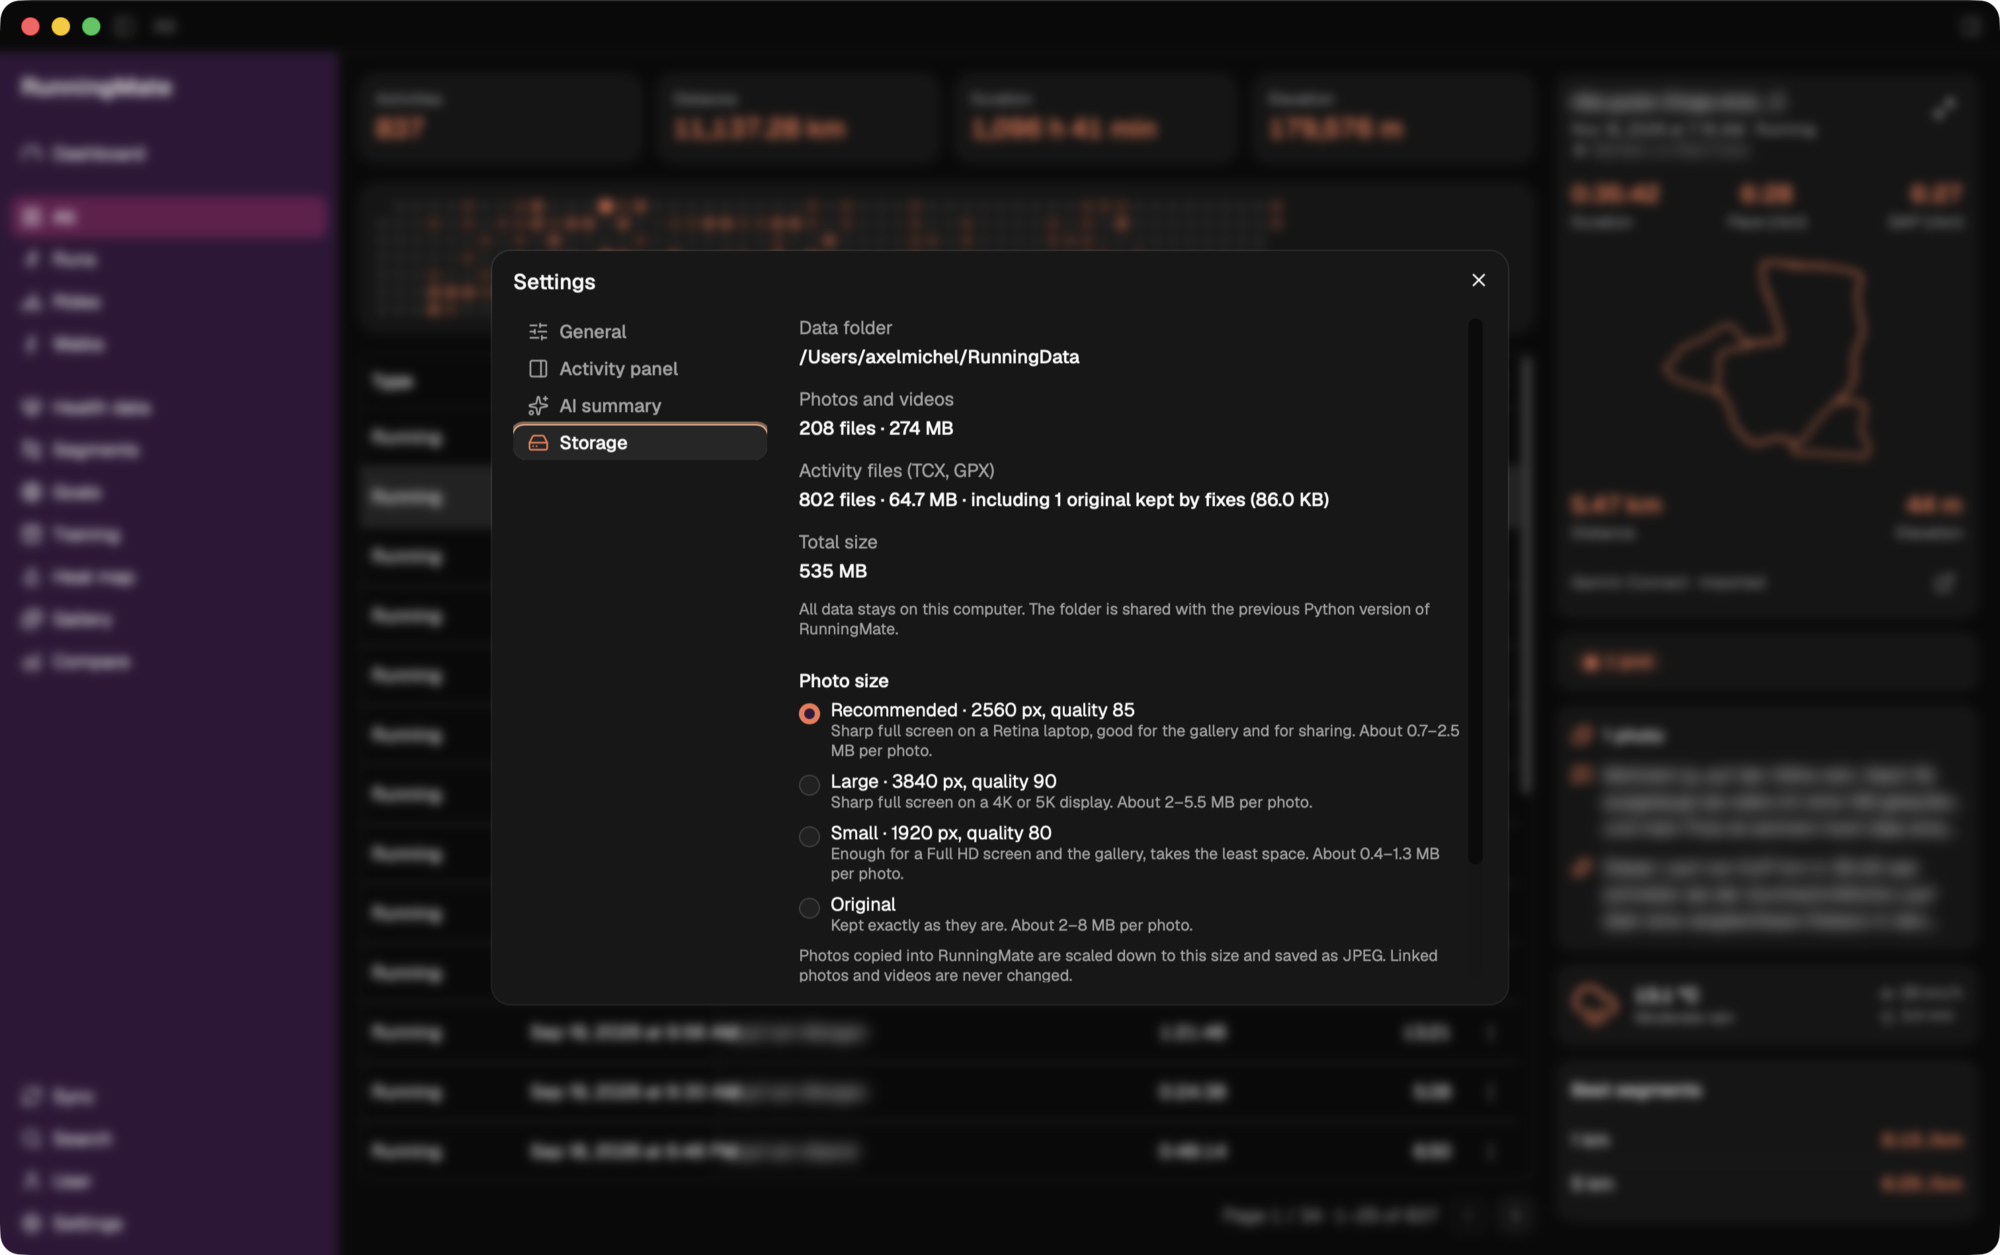
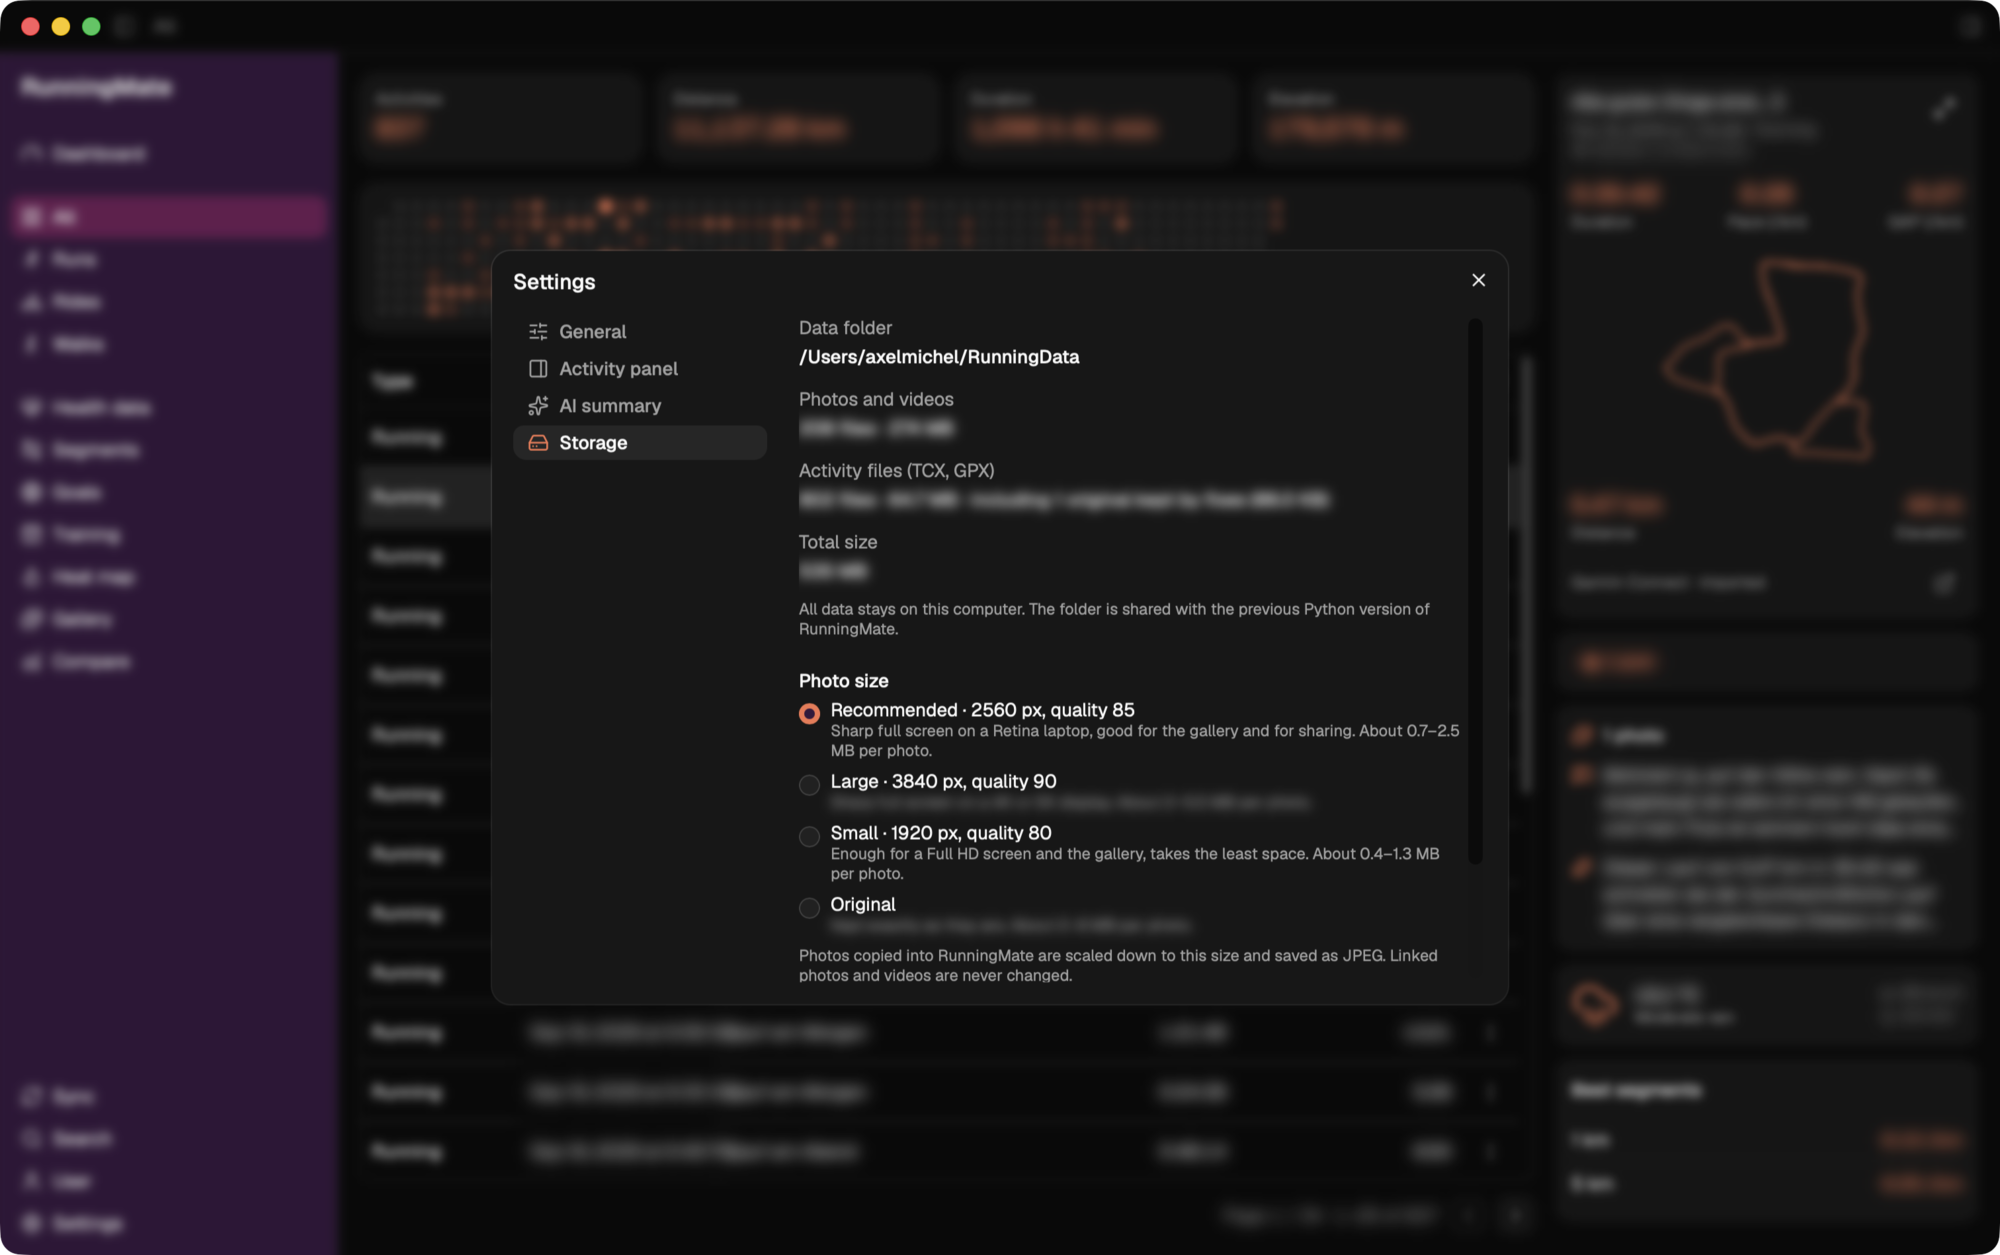
Screenshots: every figure blurred and no focus rings
Privacy mode (VITE_PRIVACY=1, development builds only) now also blurs times, distances, paces,
heart rates, health values and other figures: a small observer marks short texts with a number
and unit or a time, chart value axes and labels are hidden, input values, zone limits and the
age group are blurred, and focus rings are left out. All doc screenshots are retaken with it.

diff --git a/app/src/lib/privacy.ts b/app/src/lib/privacy.ts
@@ -1,0 +1,49 @@
+/**
+ * Privacy mode for screenshots (`VITE_PRIVACY=1`, development only): besides the elements
+ * marked `data-private`, every short text with a figure in it, a number with a unit (km, bpm,
+ * %, …) or a time like 5:41, gets the class `privacy-figure`, which blurs it (or, in charts,
+ * hides it). Only a class is added, so React's DOM stays as it is.
+ */
+const FIGURE =
+  /\d[\d.,]*\s*(?:km\/h|\/km|km|m\b|bpm|spm|kcal|W\b|%|h\b|min\b|s\b|ml\/kg|°C|mm\b|MB|KB|GB)|\d+:\d\d/;
+/** Longer texts are sentences; blurring them whole would hide too much. */
+const MAX_LENGTH = 80;
+
+function mark(node: Node) {
+  const parent = node.parentElement;
+  const text = node.textContent ?? "";
+  if (!parent || text.length > MAX_LENGTH || parent.closest("[data-private]")) return;
+  // Adding a class that is there already still counts as a change, and would loop.
+  if (FIGURE.test(text) && !parent.classList.contains("privacy-figure")) {
+    parent.classList.add("privacy-figure");
+  }
+}
+
+function scan(root: Node) {
+  if (root.nodeType === Node.TEXT_NODE) return mark(root);
+  const walker = document.createTreeWalker(root, NodeFilter.SHOW_TEXT);
+  for (let node = walker.nextNode(); node; node = walker.nextNode()) mark(node);
+}
+
+export function startPrivacyMode() {
+  document.documentElement.classList.add("privacy");
+  scan(document.body);
+  new MutationObserver((mutations) => {
+    for (const mutation of mutations) {
+      if (mutation.type === "characterData") mark(mutation.target);
+      else if (mutation.type === "attributes") {
+        // Only the element's own text: its class was reset, the rest is unchanged.
+        mutation.target.childNodes.forEach((child) => {
+          if (child.nodeType === Node.TEXT_NODE) mark(child);
+        });
+      } else mutation.addedNodes.forEach(scan);
+    }
+  }).observe(document.body, {
+    subtree: true,
+    childList: true,
+    characterData: true,
+    // React resets `class` on updates; the scan puts the mark back.
+    attributes: true,
+    attributeFilter: ["class"],
+  });
+}

diff --git a/app/src/index.css b/app/src/index.css
@@ -253,6 +253,27 @@ body:has([data-slot="dialog-overlay"], [data-slot="alert-dialog-overlay"])
 }
 
 /* Privacy mode for screenshots (see main.tsx): activity titles and comments are unreadable. */
-.privacy [data-private] {
+.privacy [data-private],
+/* The figures too: anything set in tabular figures, values marked as figures, chart values. */
+.privacy .tabular-nums,
+.privacy .privacy-figure,
+.privacy input[type="number"],
+.privacy input[type="datetime-local"],
+.privacy .recharts-tooltip-wrapper {
   filter: blur(5px);
+}
+
+/* WebKit doesn't blur SVG text: figures in charts, and every value axis, are hidden instead
+   (important: the chart container sets the tick colour with a more specific rule). */
+.privacy svg .privacy-figure,
+.privacy [class*="yAxis"] text,
+.privacy .recharts-label-list text,
+.privacy .recharts-label {
+  fill: transparent !important;
+}
+
+/* No focus rings on screenshots: driving the app by keyboard shortcuts leaves them on. */
+.privacy *:focus-visible {
+  outline: none !important;
+  box-shadow: none !important;
 }

diff --git a/app/src/main.tsx b/app/src/main.tsx
@@ -7,11 +7,12 @@ import App from "./App";
 import { ThemeProvider } from "@/components/theme-provider";
 import { Toaster } from "@/components/ui/sonner";
 import { TooltipProvider } from "@/components/ui/tooltip";
+import { startPrivacyMode } from "@/lib/privacy";
 import "./index.css";
 
-// Screenshots for the docs: `VITE_PRIVACY=1 pnpm tauri dev` blurs titles and comments.
+// Screenshots for the docs: `VITE_PRIVACY=1 pnpm tauri dev` blurs titles, comments and figures.
 if (import.meta.env.DEV && import.meta.env.VITE_PRIVACY) {
-  document.documentElement.classList.add("privacy");
+  startPrivacyMode();
 }
 
 // Data comes from the local database, so there is nothing to refetch on focus.

diff --git a/app/src/features/health/health-page.tsx b/app/src/features/health/health-page.tsx
@@ -149,7 +149,8 @@ function CardioCard({ cardio }: { cardio: CardioFitness }) {
             {rating ? (
               <>
                 <ScaleBar scale={cardioScale(rating.bounds)} value={vo2max} />
-                <p className="text-xs text-muted-foreground">
+                {/* Age group and sex are personal; blurred in privacy mode. */}
+                <p data-private className="text-xs text-muted-foreground">
                   {rating.gender === "female"
                     ? t(
                         "Compared with women aged {{from}}–{{to}} (Cooper Institute norms, as used by Garmin).",

diff --git a/app/src/features/detail/zone-bars.tsx b/app/src/features/detail/zone-bars.tsx
@@ -15,7 +15,7 @@ export function ZoneBars({ zones }: { zones: ZoneTime[] }) {
         <div key={zone.zone} className="contents">
           <span className="whitespace-nowrap">
             {t("Zone {{zone}}", { zone: zone.zone })}{" "}
-            <span className="text-muted-foreground">
+            <span data-private className="text-muted-foreground">
               ({zone.minBpm}–{zone.maxBpm})
             </span>
           </span>

diff --git a/app/src/features/detail/edit-tab.tsx b/app/src/features/detail/edit-tab.tsx
@@ -196,6 +196,7 @@ export function EditTab({ activity, onSaved }: { activity: ActivityDetail; onSav
             <div className="grid gap-2">
               <Label htmlFor="duration">{t("Duration (h:mm:ss)")}</Label>
               <Input
+                data-private
                 id="duration"
                 value={form.duration}
                 onChange={set("duration")}

diff --git a/README.md b/README.md
@@ -67,7 +67,8 @@ pnpm tauri build   # build the installer
 
 To work against a copy of your data, point the app at another folder:
 `RUNNINGMATE_DATA_DIR=/path/to/copy pnpm tauri dev`. For screenshots, `VITE_PRIVACY=1 pnpm tauri dev`
-blurs activity titles, comments and segment names (development builds only).
+blurs activity titles, comments, places and segment names and every figure (times, distances,
+paces, heart rates, health values), and leaves out focus rings (development builds only).
 
 ### Checks
 All pull requests run these:
